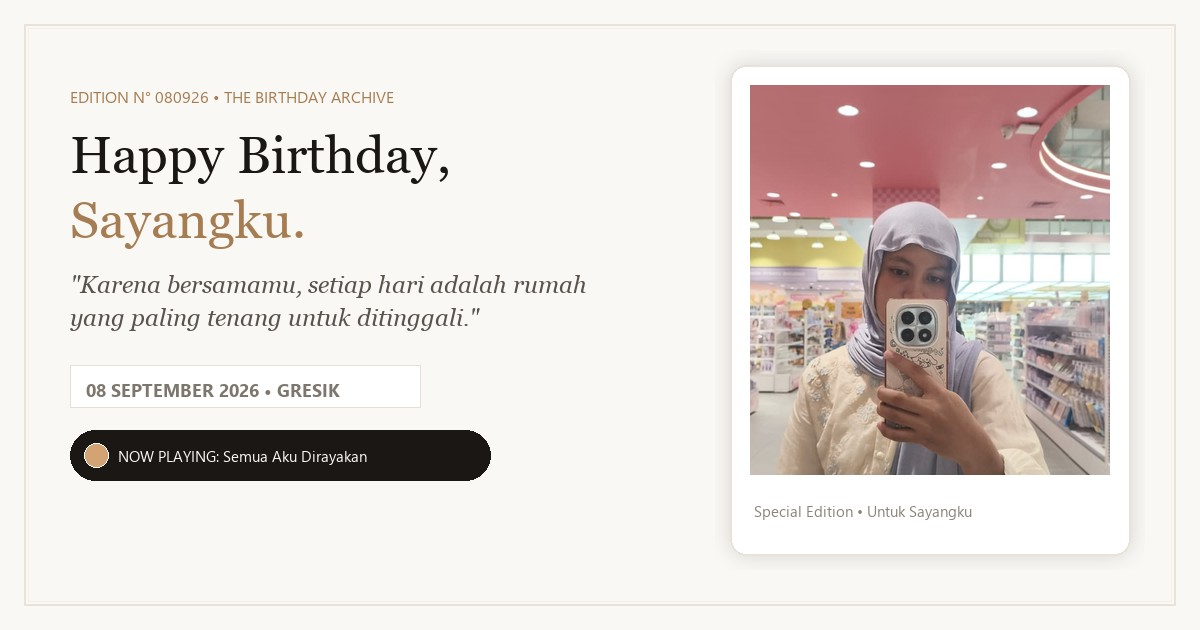
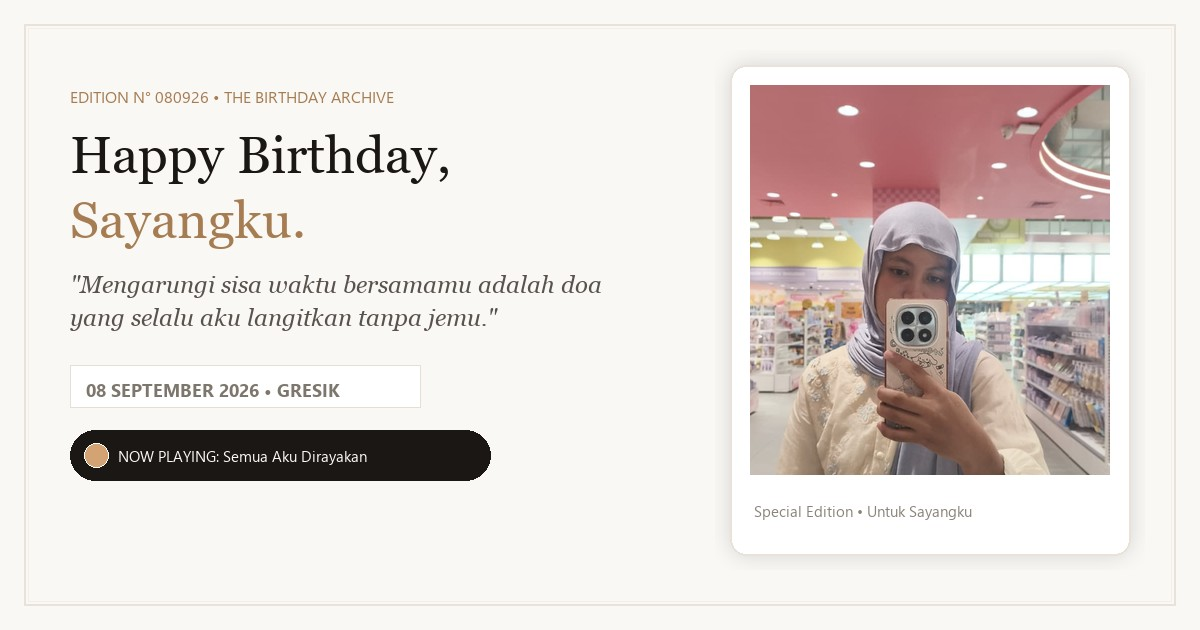
feat: humanize birthday letter and update hero motto

Changed region(s): [[0.0617, 0.4222, 0.4933, 0.5429]]

diff --git a/src/lib/birthday-data.ts b/src/lib/birthday-data.ts
@@ -37,15 +37,15 @@ export const BIRTHDAY_CONFIG = {
 };
 
 export const EDITORIAL_LETTER = {
-  headline: "Selamat Ulang Tahun, Rumahku.",
+  headline: "Selamat Ulang Tahun, Rumah & Doaku.",
   editionInfo: "Edisi Khusus • 08 September 2026",
   paragraphs: [
     "Selamat ulang tahun ya, Sayangku tercinta.",
-    "Hari ini adalah salah satu hari yang paling aku syukuri di hidupku, karena di tanggal 8 September ini, orang yang paling baik, paling manis, dan paling aku sayangi lahir ke dunia.",
-    "Terima kasih banyak ya sudah lahir dan tumbuh jadi sosok yang begitu menyenangkan. Sejak 16 Januari lalu kita mulai melangkah bersama, hariku yang tadinya biasa aja berubah jadi selalu punya alasan buat pulang dan tersenyum. Bersamamu, aku nggak pernah merasa harus berpura-pura—aku bisa jadi diriku sendiri seutuhnya.",
-    "Di usiamu yang baru ini, doa aku sederhana tapi tulus dari lubuk hati: semoga kamu selalu diberikan kesehatan, dilindungi dari segala hal yang melelahkan, dan dimudahkan semua impian serta rencana baik yang sedang kamu perjuangkan. Apapun yang terjadi di luar sana, ingat ya, kamu selalu punya aku yang bakal siap sedia mendengarkan dan mendukungmu.",
-    "Jangan pernah ragu sama dirimu sendiri. Kamu hebat, kamu berharga, dan kamu selalu istimewa di mataku. Terima kasih sudah memilih bertahan dan menemaniku sejauh ini.",
-    "Selamat bertambah usia, Sayang. Mari kita terus jalan bareng, bikin lebih banyak cerita seru, dan lewati setiap hari ke depan dengan saling menjaga. Aku sayang banget sama kamu, hari ini, besok, dan seterusnya.",
+    "Waktu aku ulang tahun kemarin, aku ingat banget kamu sempat kirim pesan panjang. Kamu bilang kalau kamu sering mikir gimana ya jalannya takdir sampai akhirnya kita berdua bisa dipertemukan, dan kamu bilang kalau mencintaiku adalah keputusan paling membahagiakan yang pernah kamu ambil.",
+    "Hari ini, di tanggal 8 September ini, gantian giliran aku yang mau ngomong langsung ke kamu: ketemu kamu adalah hal paling indah dan paling aku syukuri di hidup ini. Sejak 16 Januari lalu kita mulai jalan bareng—ke mana-mana berdua, ketawa lepas, cerita ngalor-ngidul nggak jelas sampai larut—hariku yang tadinya biasa aja beneran berubah jadi jauh lebih hangat dan selalu punya alasan buat pulang dan tersenyum.",
+    "Kamu selalu bilang aku pacar terbaik dan sempurna di matamu, padahal kenyataannya justru kamulah yang selalu bikin aku merasa cukup dan berharga. Aku juga minta maaf ya kalau selama ini masih banyak kurangnya, kadang bikin kesel atau belum bisa jadi yang paling sempurna. Tapi satu hal yang perlu kamu tahu: doa kamu buat ngarungi sisa waktu bareng aku itu, beneran jadi amin paling serius yang selalu aku langitkan setiap hari.",
+    "Di usia barumu ini, tetap jadi diri kamu ya. Tetap jadi si manis yang ceria, yang suka manja, dan nggak pernah pelit senyum. Kamu nggak perlu khawatir, aku nggak akan berubah—aku bakal terus ada di sini buat nemenin kamu, jagain kamu, dan sayang sama kamu hari ini, besok, dan seterusnya.",
+    "Selamat bertambah usia, Sayangku. I love you more than you'll ever know. (Peluk erat banget dari jauh 🫂💗)",
   ],
   signOff: "Dari seseorang yang selalu bersyukur memilikimu,",
   signature: "Sayang Kamu Selalu ❤",

diff --git a/src/components/EditorialHero.tsx b/src/components/EditorialHero.tsx
@@ -84,7 +84,7 @@ export function EditorialHero() {
         </h1>
 
         <p className="font-cormorant italic text-lg sm:text-xl text-[#59534E] max-w-lg mx-auto mt-6 leading-relaxed">
-          "Karena bersamamu, setiap hari adalah rumah yang paling tenang untuk ditinggali."
+          "Mengarungi sisa waktu bersamamu adalah doa yang selalu aku langitkan tanpa jemu."
         </p>
       </div>
 
